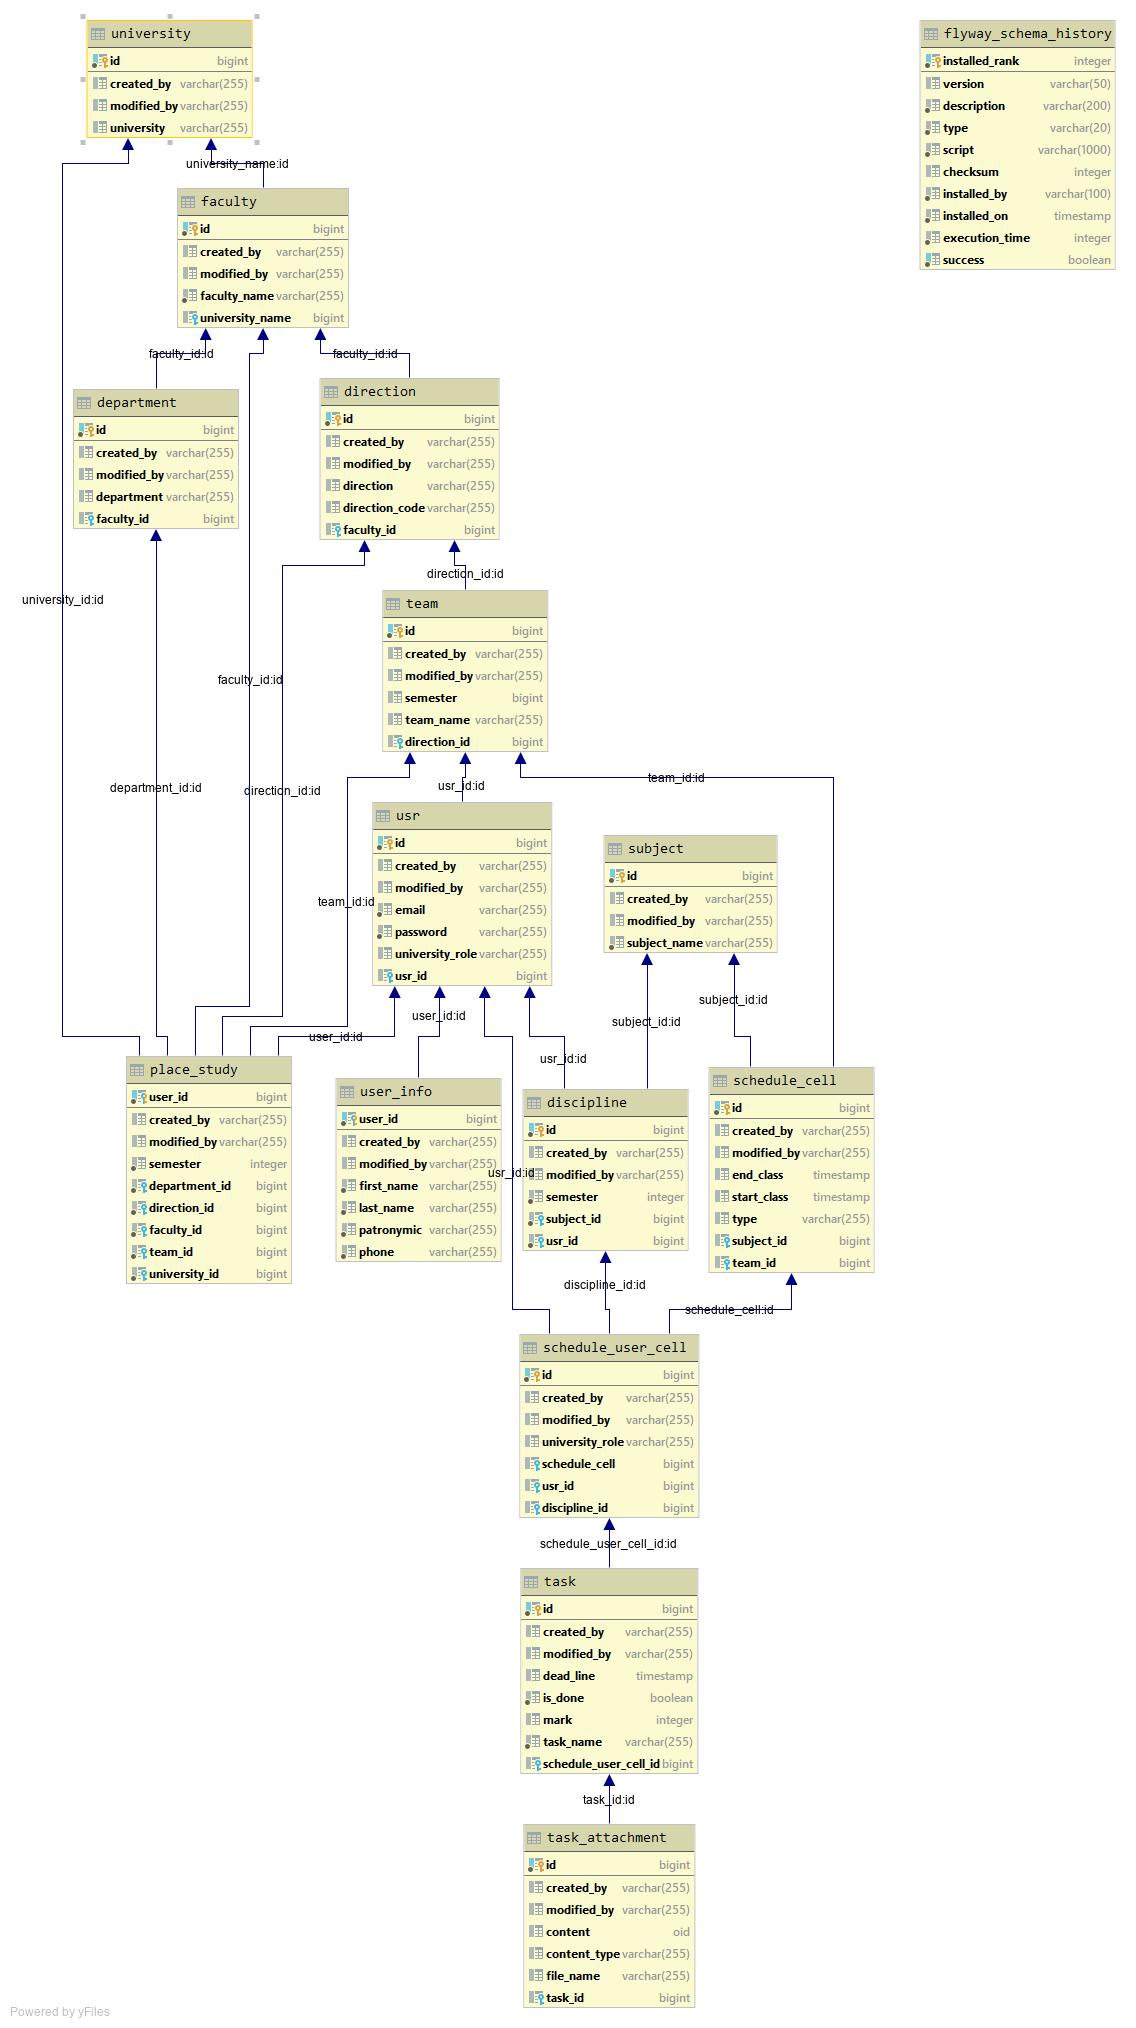
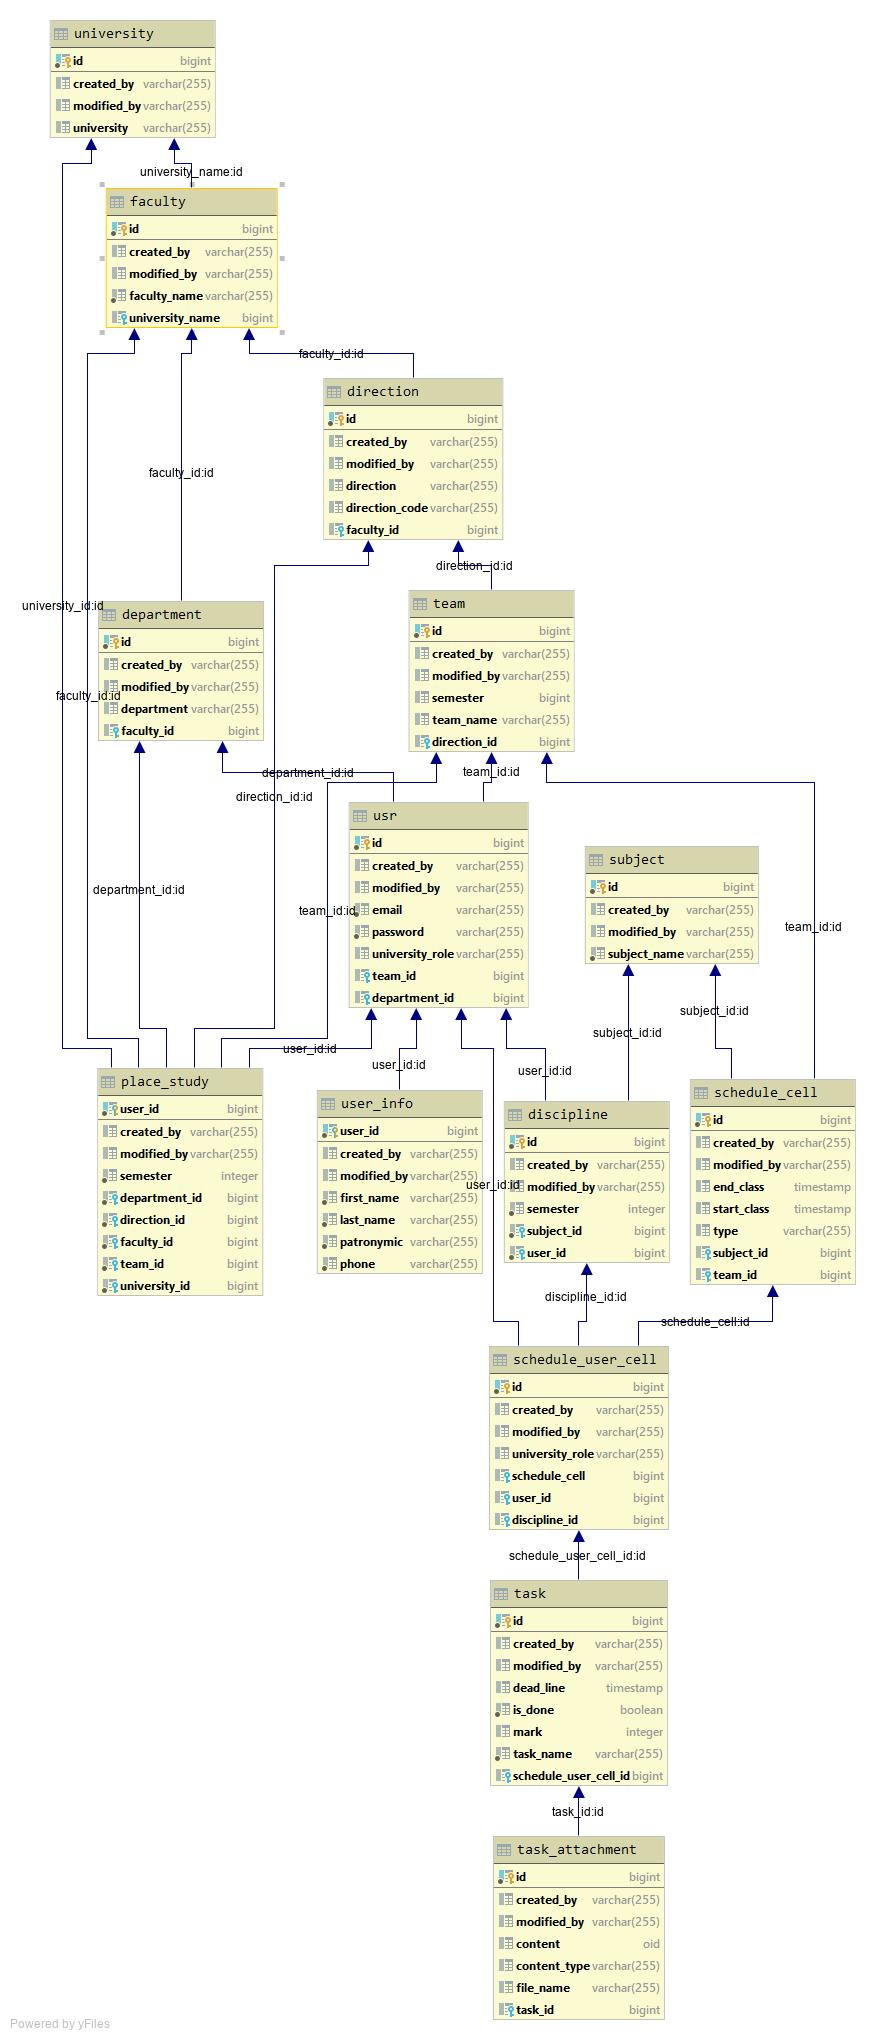
db-test добавлен в список модулей Мелкие изменения в сущностях, чтобы убрать дублирование поля usr_id Sql запросы вынесены в файлы. Одновлена схема БД

diff --git a/db-test/src/main/java/ru/studentsplatform/backend/dbtest/SpringTest.java b/db-test/src/main/java/ru/studentsplatform/backend/dbtest/SpringTest.java
@@ -6,13 +6,13 @@ import org.dbunit.dataset.ITable;
 import org.dbunit.dataset.xml.FlatXmlDataSetBuilder;
 import org.dbunit.operation.DatabaseOperation;
 import org.junit.After;
+import org.junit.Before;
 import org.junit.Test;
 import org.junit.platform.commons.logging.Logger;
 import org.junit.platform.commons.logging.LoggerFactory;
 import org.junit.runner.RunWith;
 import org.postgresql.ds.PGSimpleDataSource;
 import org.springframework.stereotype.Service;
-import org.springframework.test.annotation.DirtiesContext;
 import org.springframework.test.context.junit4.SpringRunner;
 import javax.sql.DataSource;
 import java.io.InputStream;
@@ -20,15 +20,22 @@ import java.sql.Connection;
 
 import static org.dbunit.Assertion.assertEqualsIgnoreCols;
 
+/**
+ * Класс, использующий dbUnit для тестирования баз данных.
+ *
+ * @author Archie-Vian (sas-artamonov@yandex.ru)
+ */
 @Service
 @RunWith(SpringRunner.class)
-@DirtiesContext(classMode = DirtiesContext.ClassMode.BEFORE_CLASS)
 public class SpringTest extends DataSourceBasedDBTestCase {
 
-    private Logger LOGGER = LoggerFactory.getLogger(SpringTest.class);
+    private Logger logger = LoggerFactory.getLogger(SpringTest.class);
 
+    /**
+     * Осуществляем подключение к тестовой БД.
+     * @return Объект источника данных
+     */
     protected DataSource getDataSource() {
-
         PGSimpleDataSource dataSource = new PGSimpleDataSource();
         dataSource.setURL(
                 "jdbc:postgresql://studplatform-database.ctzczhzrzupg.eu-west-2.rds.amazonaws.com/testDB");
@@ -37,45 +44,79 @@ public class SpringTest extends DataSourceBasedDBTestCase {
         return dataSource;
     }
 
+    /**
+     * Опееделяем, какая функция будет срабатывать при вызове метода setUp().
+     * @return Определяем, что при вызове метода будет обновляться подключение
+     */
     @Override
     protected DatabaseOperation getSetUpOperation() {
         return DatabaseOperation.REFRESH;
     }
 
+    /**
+     * Опееделяем, какая функция будет срабатывать при вызове метода tearDown().
+     * @return Определяем, что при вызове метода будут удалены все записи во всех таблицах
+     */
     @Override
     protected DatabaseOperation getTearDownOperation() {
         return DatabaseOperation.DELETE_ALL;
     }
 
+    /**
+     * Получакм данные из таблицы.
+     * @return данные из таблицы
+     * @throws Exception Если не удаётся достать данные из таблицы - будет проброшено исключение.
+     */
     @Override
     protected IDataSet getDataSet() throws Exception {
         return getConnection().createDataSet();
     }
 
     /**
-     * Очищает все записи во всех таблицах, затем заново наполняет их стандартными записями.
+     * Создаёт таблицы в БД, если они отсутствуют.
      */
-    @After
-    public void clean() throws Exception {
-        tearDown();
-        getConnection().getConnection().createStatement().executeUpdate(SpringTestConfig.getFillingString());
+    @Before
+    public void init() {
+        try {
+            getConnection().getConnection().createStatement().executeUpdate(
+                    SpringTestConfig.getInitString());
+            setUp();
+        } catch (Exception e) {
+            logger.error(() -> "test setup went really wrong!");
+        }
     }
 
     /**
-     *  Тест использет эталонные данные из файла data.xml и сравнивает их с только что добавленным полем.
-     * @throws Exception qwe
+     * Очищает все записи во всех таблицах, затем заново наполняет их стандартными записями.
+     */
+    @After
+    public void clean() {
+        try {
+            tearDown();
+            getDataSource().getConnection().createStatement().executeUpdate(
+                    SpringTestConfig.getFillingString());
+        } catch (Exception e) {
+            logger.error(() -> "test cleanUp went really wrong!");
+            e.printStackTrace();
+        }
+    }
+
+    /**
+     *  Тест использет эталонные данные из файла data.xml и сравнивает их с только что добавленным полем,
+     *  игнорируя колонки id, created_by, dead_line, mark и modified_by.
      */
     @Test
-    public void anotherTest() throws Exception {
-        try (InputStream is = getClass().getClassLoader().getResourceAsStream("data.xml")) {
+    public void taskTest() {
+        try {
+            InputStream is = getClass().getClassLoader().getResourceAsStream("data.xml");
             IDataSet expectedDataSet = new FlatXmlDataSetBuilder().build(is);
             ITable expectedTable = expectedDataSet.getTable("task");
             Connection conn = getDataSource().getConnection();
 
             conn.createStatement()
                     .executeUpdate(
-                            "INSERT INTO schedule_user_cell (id) VALUES (3);" +
-                                    "INSERT INTO task (id, task_name, is_done, schedule_user_cell_id) VALUES (3, 'Math', false, 1);");
+                                    "INSERT INTO task (id, task_name, is_done, schedule_user_cell_id) " +
+                                            "VALUES (4, 'Math', false, 1);");
             ITable actualData = getConnection()
                     .createQueryTable(
                             "result_name",
@@ -83,6 +124,8 @@ public class SpringTest extends DataSourceBasedDBTestCase {
 
             assertEqualsIgnoreCols(expectedTable, actualData,
                     new String[]{"id", "created_by", "dead_line", "mark", "modified_by"});
+        } catch (Exception e) {
+            logger.error(() -> "Error occurred while db testing!");
         }
     }
 }

diff --git a/db-test/src/main/java/ru/studentsplatform/backend/dbtest/SpringTestConfig.java b/db-test/src/main/java/ru/studentsplatform/backend/dbtest/SpringTestConfig.java
@@ -1,40 +1,47 @@
 package ru.studentsplatform.backend.dbtest;
 
+import org.springframework.core.io.ClassPathResource;
+import org.springframework.util.StreamUtils;
+import java.io.IOException;
+
+import static java.nio.charset.Charset.defaultCharset;
+
+/**
+ * Содержит методы, возвращающие sql запросы для тестировангия БД.
+ *
+ * @author Archie-Vian (sas-artamonov@yandex.ru)
+ */
 public class SpringTestConfig {
 
-    private final static String FILLING_STRING = "INSERT INTO university VALUES (1, 'я', 'Также я', 'Санкт-Петербургский государственный университет');" +
-            "INSERT INTO university VALUES (2, 'я', 'Также я', 'Университет ИТМО');" +
-            "INSERT INTO faculty VALUES (1, 'я', 'Также я', 'Грифендор');" +
-            "INSERT INTO faculty VALUES (2, 'я', 'Также я', 'Слизерин');" +
-            "INSERT INTO department VALUES (1, 'я', 'Также я', 'Зельеварение');" +
-            "INSERT INTO department VALUES (2, 'я', 'Также я', 'Колдунство');" +
-            "INSERT INTO direction VALUES (1, 'я', 'Также я', 'Волшебники');" +
-            "INSERT INTO direction VALUES (2, 'я', 'Также я', 'Дворники');" +
-            "INSERT INTO team VALUES (1, 'я', 'Также я', 1, 'Г-1', 1);" +
-            "INSERT INTO team VALUES (2, 'я', 'Также я', 2, 'C-1', 2);" +
-            "INSERT INTO usr values (1, 'я', 'Также я', 'harry-potter@owl.ru', 'snitch1', 'Студент', 1);" +
-            "INSERT INTO usr values (2, 'я', 'Также я', 'Drako1337Malfoy@owl.mail', 'HarryDork', 'Студент', 1);" +
-            "INSERT INTO usr values (3, 'я', 'Также я', 'Dumbledore@owl.mail', 'DontForget', 'Преподаватель', 1);" +
-            "INSERT INTO subject VALUES (1, 'я', 'Также я', 'Защита от темной магии');" +
-            "INSERT INTO subject VALUES (2, 'я', 'Также я', 'Хоровое пение');" +
-            "INSERT INTO place_study VALUES ('я', 'Также я', 1,1,1,1,1,1,1);" +
-            "INSERT INTO place_study VALUES ('я', 'Также я', 2,2,2,2,2,2,2);" +
-            "INSERT INTO user_info VALUES ('я', 'Также я', 'Гарри', 'Поттер', 'Безбатькович','8-228-111',1);" +
-            "INSERT INTO user_info VALUES ('я', 'Также я', 'Драко', 'Малфой', 'Люциус','8-001-200',2);" +
-            "INSERT INTO discipline VALUES (1, 'я', 'Также я', 1,1,1);" +
-            "INSERT INTO discipline VALUES (2, 'я', 'Также я', 2,2,2);" +
-            "INSERT INTO schedule_cell VALUES (" +
-            "1, 'я', 'Также я', '2004-10-19 10:23:54+02', '2004-10-19 11:53:54+02','Лекция', 1, 1);" +
-            "INSERT INTO schedule_cell VALUES (" +
-            "2, 'я', 'Также я', '2004-10-12 10:23:54+02', '2004-10-20 11:53:54+02','Практика',2, 2);" +
-            "INSERT INTO schedule_user_cell VALUES (1, 'я', 'Также я', 'Студент',1,1,1);" +
-            "INSERT INTO schedule_user_cell VALUES (2, 'я', 'Также я', 'Преподаватель',2,2,2);" +
-            "INSERT INTO task VALUES (1, 'я', 'Также я', '2004-10-19 11:53:54+02',false,null,'Презентация',1);" +
-            "INSERT INTO task VALUES (2, 'я', 'Также я', '2005-10-19 11:53:54+02',true,5,'Выкинуть мусор',2);" +
-            "INSERT INTO task_attachment VALUES (1, 'я', 'Также я', null,'image/jpeg','Картиночка',1);" +
-            "INSERT INTO task_attachment VALUES (2, 'я', 'Также я', null,'image/jpeg','Пикча',2);";
-
+    /**
+     * Возращает из файла строку с запросом для наполнения БД.
+     * @return строка с запросом
+     */
     static String getFillingString() {
-        return FILLING_STRING;
+        String resource = null;
+        try {
+            resource = StreamUtils.copyToString(
+                    new ClassPathResource("data.sql").getInputStream(), defaultCharset());
+        } catch (IOException e) {
+            e.printStackTrace();
+        }
+        return resource;
     }
+
+    /**
+     * Возращает из файла строку с запросом для инициализации БД.
+     * @return строка с запросом
+     */
+    static String getInitString() {
+        String resource = null;
+        try {
+            resource = StreamUtils.copyToString(
+                    new ClassPathResource("data.sql").getInputStream(), defaultCharset());
+        } catch (IOException e) {
+            e.printStackTrace();
+        }
+        return resource;
+    }
+
+
 }

diff --git a/entities/src/main/java/ru/studentsplatform/backend/entities/model/university/Team.java b/entities/src/main/java/ru/studentsplatform/backend/entities/model/university/Team.java
@@ -27,6 +27,7 @@ public class Team extends BaseEntity {
 	private String teamName;
 
 	@OneToMany
+	@JoinColumn(name = "team_id")
 	private List<User> users;
 
 	@ManyToOne(fetch = FetchType.LAZY)
